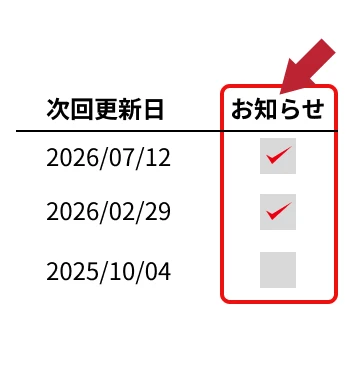
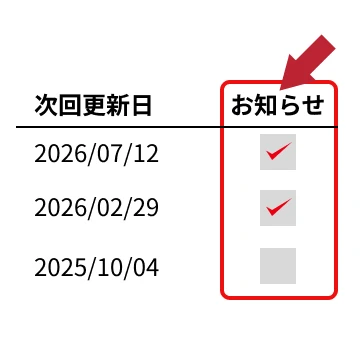
Improve the guide page layout for mobile and desktop.
Refresh step images, add a page title and numbered badges, and use full-width horizontal cards on mobile while keeping the desktop step flow.

diff --git a/src/components/features/guide/GuideSteps.tsx b/src/components/features/guide/GuideSteps.tsx
@@ -5,7 +5,9 @@ import { GUIDE_IMAGE_VERSION, GUIDE_STEPS } from "@/components/features/guide/co
 import {
   GuideStepCardContent,
   GuideStepHeader,
+  STEP_COLUMN_WIDTH_CLASS,
 } from "@/components/features/guide/GuideStepCardWrapper";
+import { cn } from "@/lib/utils";
 
 const GUIDE_ARROW_CLASS = "shrink-0 text-2xl text-white/90";
 
@@ -20,46 +22,51 @@ function GuideArrowRight() {
 export function GuideSteps() {
   return (
     <div className="w-full min-w-0 overflow-x-hidden">
-      <div className="flex w-full flex-col items-center gap-3 lg:w-max lg:min-w-full lg:flex-row lg:items-start lg:justify-center">
-        {GUIDE_STEPS.map((guideStep, index) => (
-          <Fragment key={guideStep.step}>
-            <div className="flex w-[180px] shrink-0 flex-col gap-3">
-              <GuideStepHeader step={guideStep.step} title={guideStep.title} />
-              <GuideStepCardContent
-                description={guideStep.description}
-                backgroundColor={guideStep.cardBackgroundColor}
-                image={
-                  <Image
-                    src={`${guideStep.imageSrc}?v=${GUIDE_IMAGE_VERSION}`}
-                    alt={guideStep.imageAlt}
-                    width={guideStep.imageWidth}
-                    height={guideStep.imageHeight}
-                    unoptimized
-                    className="max-h-full max-w-full object-contain"
-                  />
-                }
-              />
-            </div>
-            {index < GUIDE_STEPS.length - 1 ? (
-              <>
-                <div className="flex items-center justify-center py-1 lg:hidden">
-                  <GuideArrowDown />
-                </div>
-                <div className="hidden w-6 shrink-0 flex-col gap-3 self-stretch lg:flex">
-                  <div className="invisible overflow-hidden" aria-hidden="true">
-                    <GuideStepHeader
-                      step={guideStep.step}
-                      title={guideStep.title}
+      <div className="mx-auto flex w-full flex-col items-center gap-10 lg:w-max">
+        <h1 className="w-full text-center text-2xl font-bold text-white lg:text-[36px]">
+          サブスクMEMOの使い方
+        </h1>
+        <div className="flex w-full flex-col gap-3 lg:w-max lg:min-w-full lg:flex-row lg:items-start lg:justify-center">
+          {GUIDE_STEPS.map((guideStep, index) => (
+            <Fragment key={guideStep.step}>
+              <div className={cn("flex flex-col gap-3", STEP_COLUMN_WIDTH_CLASS)}>
+                <GuideStepHeader step={guideStep.step} title={guideStep.title} />
+                <GuideStepCardContent
+                  description={guideStep.description}
+                  backgroundColor={guideStep.cardBackgroundColor}
+                  image={
+                    <Image
+                      src={`${guideStep.imageSrc}?v=${GUIDE_IMAGE_VERSION}`}
+                      alt={guideStep.imageAlt}
+                      width={guideStep.imageWidth}
+                      height={guideStep.imageHeight}
+                      unoptimized
+                      className="h-full w-full object-contain"
                     />
+                  }
+                />
+              </div>
+              {index < GUIDE_STEPS.length - 1 ? (
+                <>
+                  <div className="flex items-center justify-center py-1 lg:hidden">
+                    <GuideArrowDown />
                   </div>
-                  <div className="flex flex-1 items-center justify-center">
-                    <GuideArrowRight />
+                  <div className="hidden w-6 shrink-0 flex-col gap-3 self-stretch lg:flex">
+                    <div className="invisible overflow-hidden" aria-hidden="true">
+                      <GuideStepHeader
+                        step={guideStep.step}
+                        title={guideStep.title}
+                      />
+                    </div>
+                    <div className="flex flex-1 items-center justify-center">
+                      <GuideArrowRight />
+                    </div>
                   </div>
-                </div>
-              </>
-            ) : null}
-          </Fragment>
-        ))}
+                </>
+              ) : null}
+            </Fragment>
+          ))}
+        </div>
       </div>
     </div>
   );

diff --git a/src/components/features/guide/GuideStepCardWrapper.tsx b/src/components/features/guide/GuideStepCardWrapper.tsx
@@ -1,7 +1,9 @@
 import type { ReactNode } from "react";
 import { cn } from "@/lib/utils";
 
-const STEP_COLUMN_WIDTH_CLASS = "w-[180px] shrink-0";
+export const STEP_COLUMN_WIDTH_CLASS = "w-full shrink-0 lg:w-[200px]";
+
+const GUIDE_STEP_BADGE_BACKGROUND = "#545454";
 
 type GuideStepHeaderProps = {
   step: number;
@@ -13,12 +15,16 @@ export function GuideStepHeader({ step, title, className }: GuideStepHeaderProps
   return (
     <h2
       className={cn(
-        "flex items-center gap-1 text-left font-semibold text-white",
-        STEP_COLUMN_WIDTH_CLASS,
+        "flex w-full items-center gap-1 text-left font-semibold text-white lg:w-[200px]",
         className
       )}
     >
-      <span className="text-[36px] leading-none">{step}</span>
+      <span
+        className="flex size-[34px] shrink-0 items-center justify-center rounded-full text-[20px] font-bold leading-none text-white"
+        style={{ backgroundColor: GUIDE_STEP_BADGE_BACKGROUND }}
+      >
+        {step}
+      </span>
       <span className="text-[16px] leading-tight">{title}</span>
     </h2>
   );
@@ -40,24 +46,26 @@ export function GuideStepCardContent({
   return (
     <div
       className={cn(
-        "flex flex-col gap-2.5 rounded-xl p-2.5 shadow-sm",
+        "flex w-full gap-2.5 rounded-xl p-2.5 shadow-sm",
+        "max-lg:flex-row max-lg:items-center",
+        "lg:flex-col",
         STEP_COLUMN_WIDTH_CLASS,
         className
       )}
       style={{ backgroundColor }}
     >
-      <p className="text-center text-sm leading-relaxed text-white">
-        {description}
-      </p>
       <div
         className={cn(
-          "flex w-full items-center justify-center overflow-hidden rounded-[10px]",
-          !image && "aspect-4/3 bg-slate-300"
+          "flex size-[110px] shrink-0 items-center justify-center overflow-hidden rounded-[10px] lg:order-2 lg:aspect-square lg:h-auto lg:w-full",
+          !image && "bg-slate-300"
         )}
         aria-hidden={image ? undefined : true}
       >
         {image}
       </div>
+      <p className="min-w-0 flex-1 text-left text-sm leading-relaxed text-white lg:order-1 lg:w-full lg:flex-none">
+        {description}
+      </p>
     </div>
   );
 }

diff --git a/src/components/features/guide/constants.ts b/src/components/features/guide/constants.ts
@@ -1,5 +1,5 @@
 /** ガイド画像差し替え時に更新してキャッシュを無効化する */
-export const GUIDE_IMAGE_VERSION = "20260702";
+export const GUIDE_IMAGE_VERSION = "20260708";
 
 export type GuideStep = {
   step: number;
@@ -20,7 +20,7 @@ export const GUIDE_STEPS: GuideStep[] = [
     imageSrc: "/assets/guide_step1.webp",
     imageAlt: "アカウント登録の説明図",
     imageWidth: 360,
-    imageHeight: 372,
+    imageHeight: 360,
     cardBackgroundColor: "#768A20",
   },
   {
@@ -30,7 +30,7 @@ export const GUIDE_STEPS: GuideStep[] = [
     imageSrc: "/assets/guide_step2.webp",
     imageAlt: "サブスク登録・変更の説明図",
     imageWidth: 360,
-    imageHeight: 372,
+    imageHeight: 360,
     cardBackgroundColor: "#208A73",
   },
   {
@@ -40,7 +40,7 @@ export const GUIDE_STEPS: GuideStep[] = [
     imageSrc: "/assets/guide_step3.webp",
     imageAlt: "お知らせメール設定の説明図",
     imageWidth: 360,
-    imageHeight: 372,
+    imageHeight: 360,
     cardBackgroundColor: "#C9981D",
   },
   {
@@ -50,7 +50,7 @@ export const GUIDE_STEPS: GuideStep[] = [
     imageSrc: "/assets/guide_step4.webp",
     imageAlt: "サブスク一覧確認の説明図",
     imageWidth: 360,
-    imageHeight: 372,
+    imageHeight: 360,
     cardBackgroundColor: "#8A2082",
   },
 ];

diff --git a/src/app/(app)/guide/page.tsx b/src/app/(app)/guide/page.tsx
@@ -2,10 +2,7 @@ import { GuideSteps } from "@/components/features/guide/GuideSteps";
 
 export default function GuidePage() {
   return (
-    <div className="flex w-full min-w-0 flex-col items-center gap-10">
-      <h1 className="sr-only">
-        サブスクMEMOの使い方
-      </h1>
+    <div className="flex w-full min-w-0 flex-col items-center">
       <GuideSteps />
     </div>
   );
